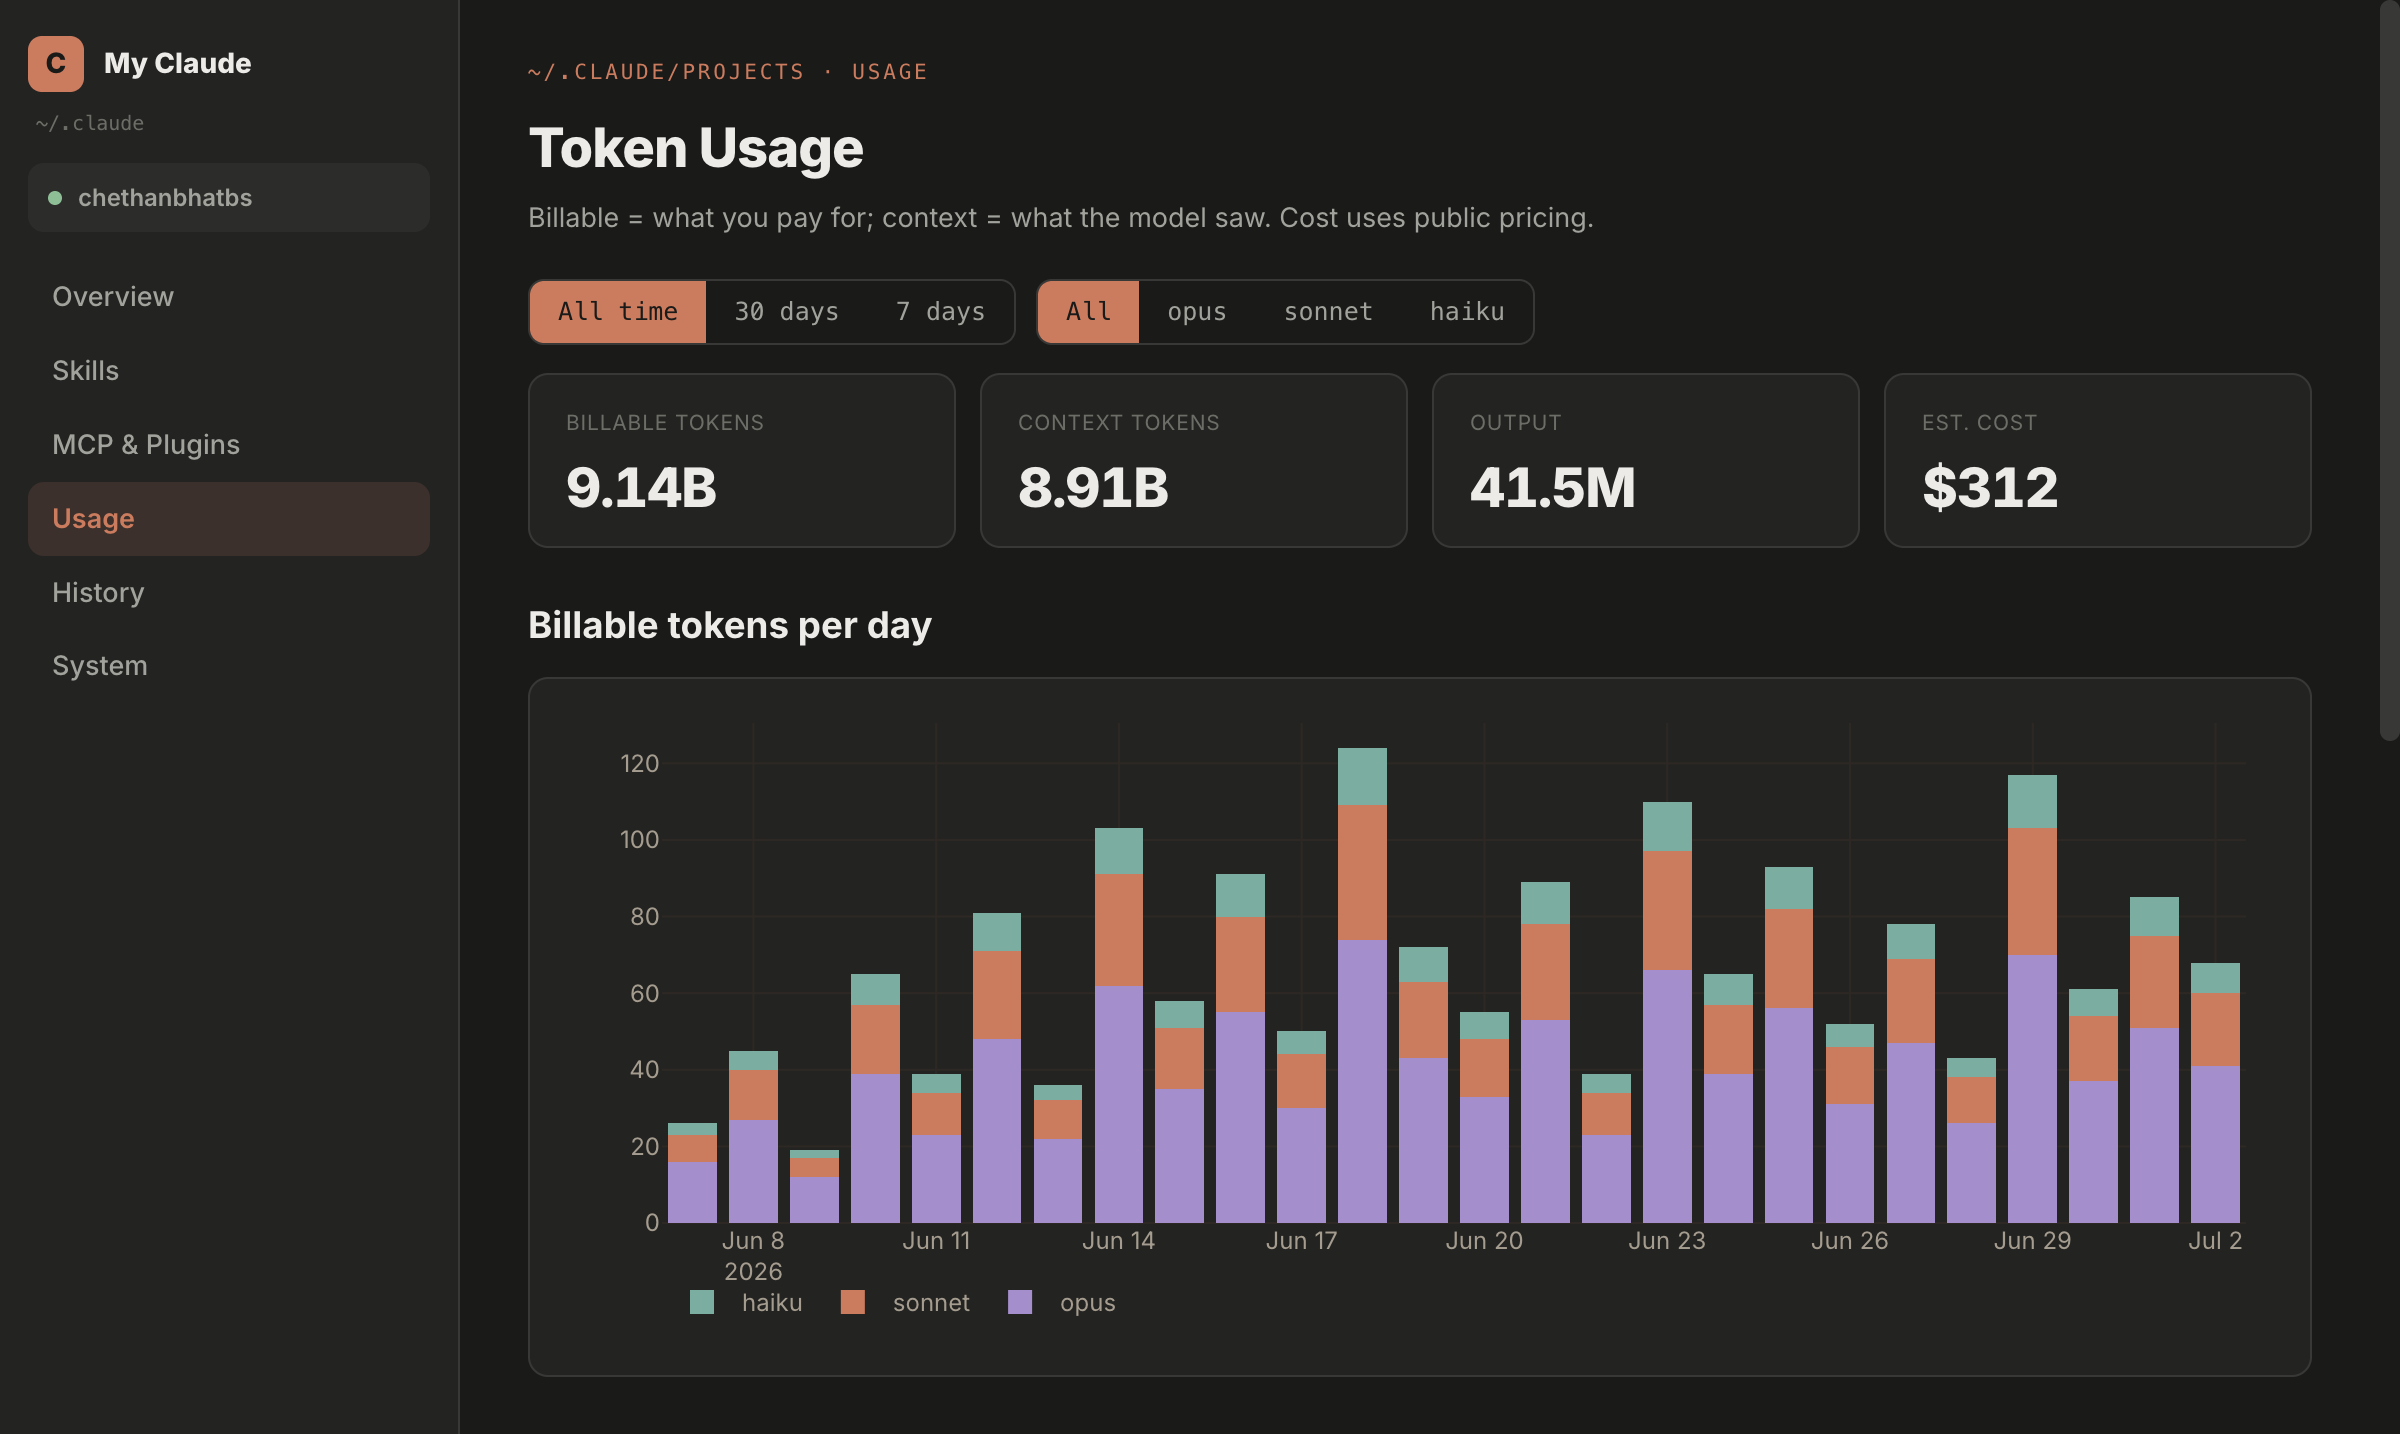
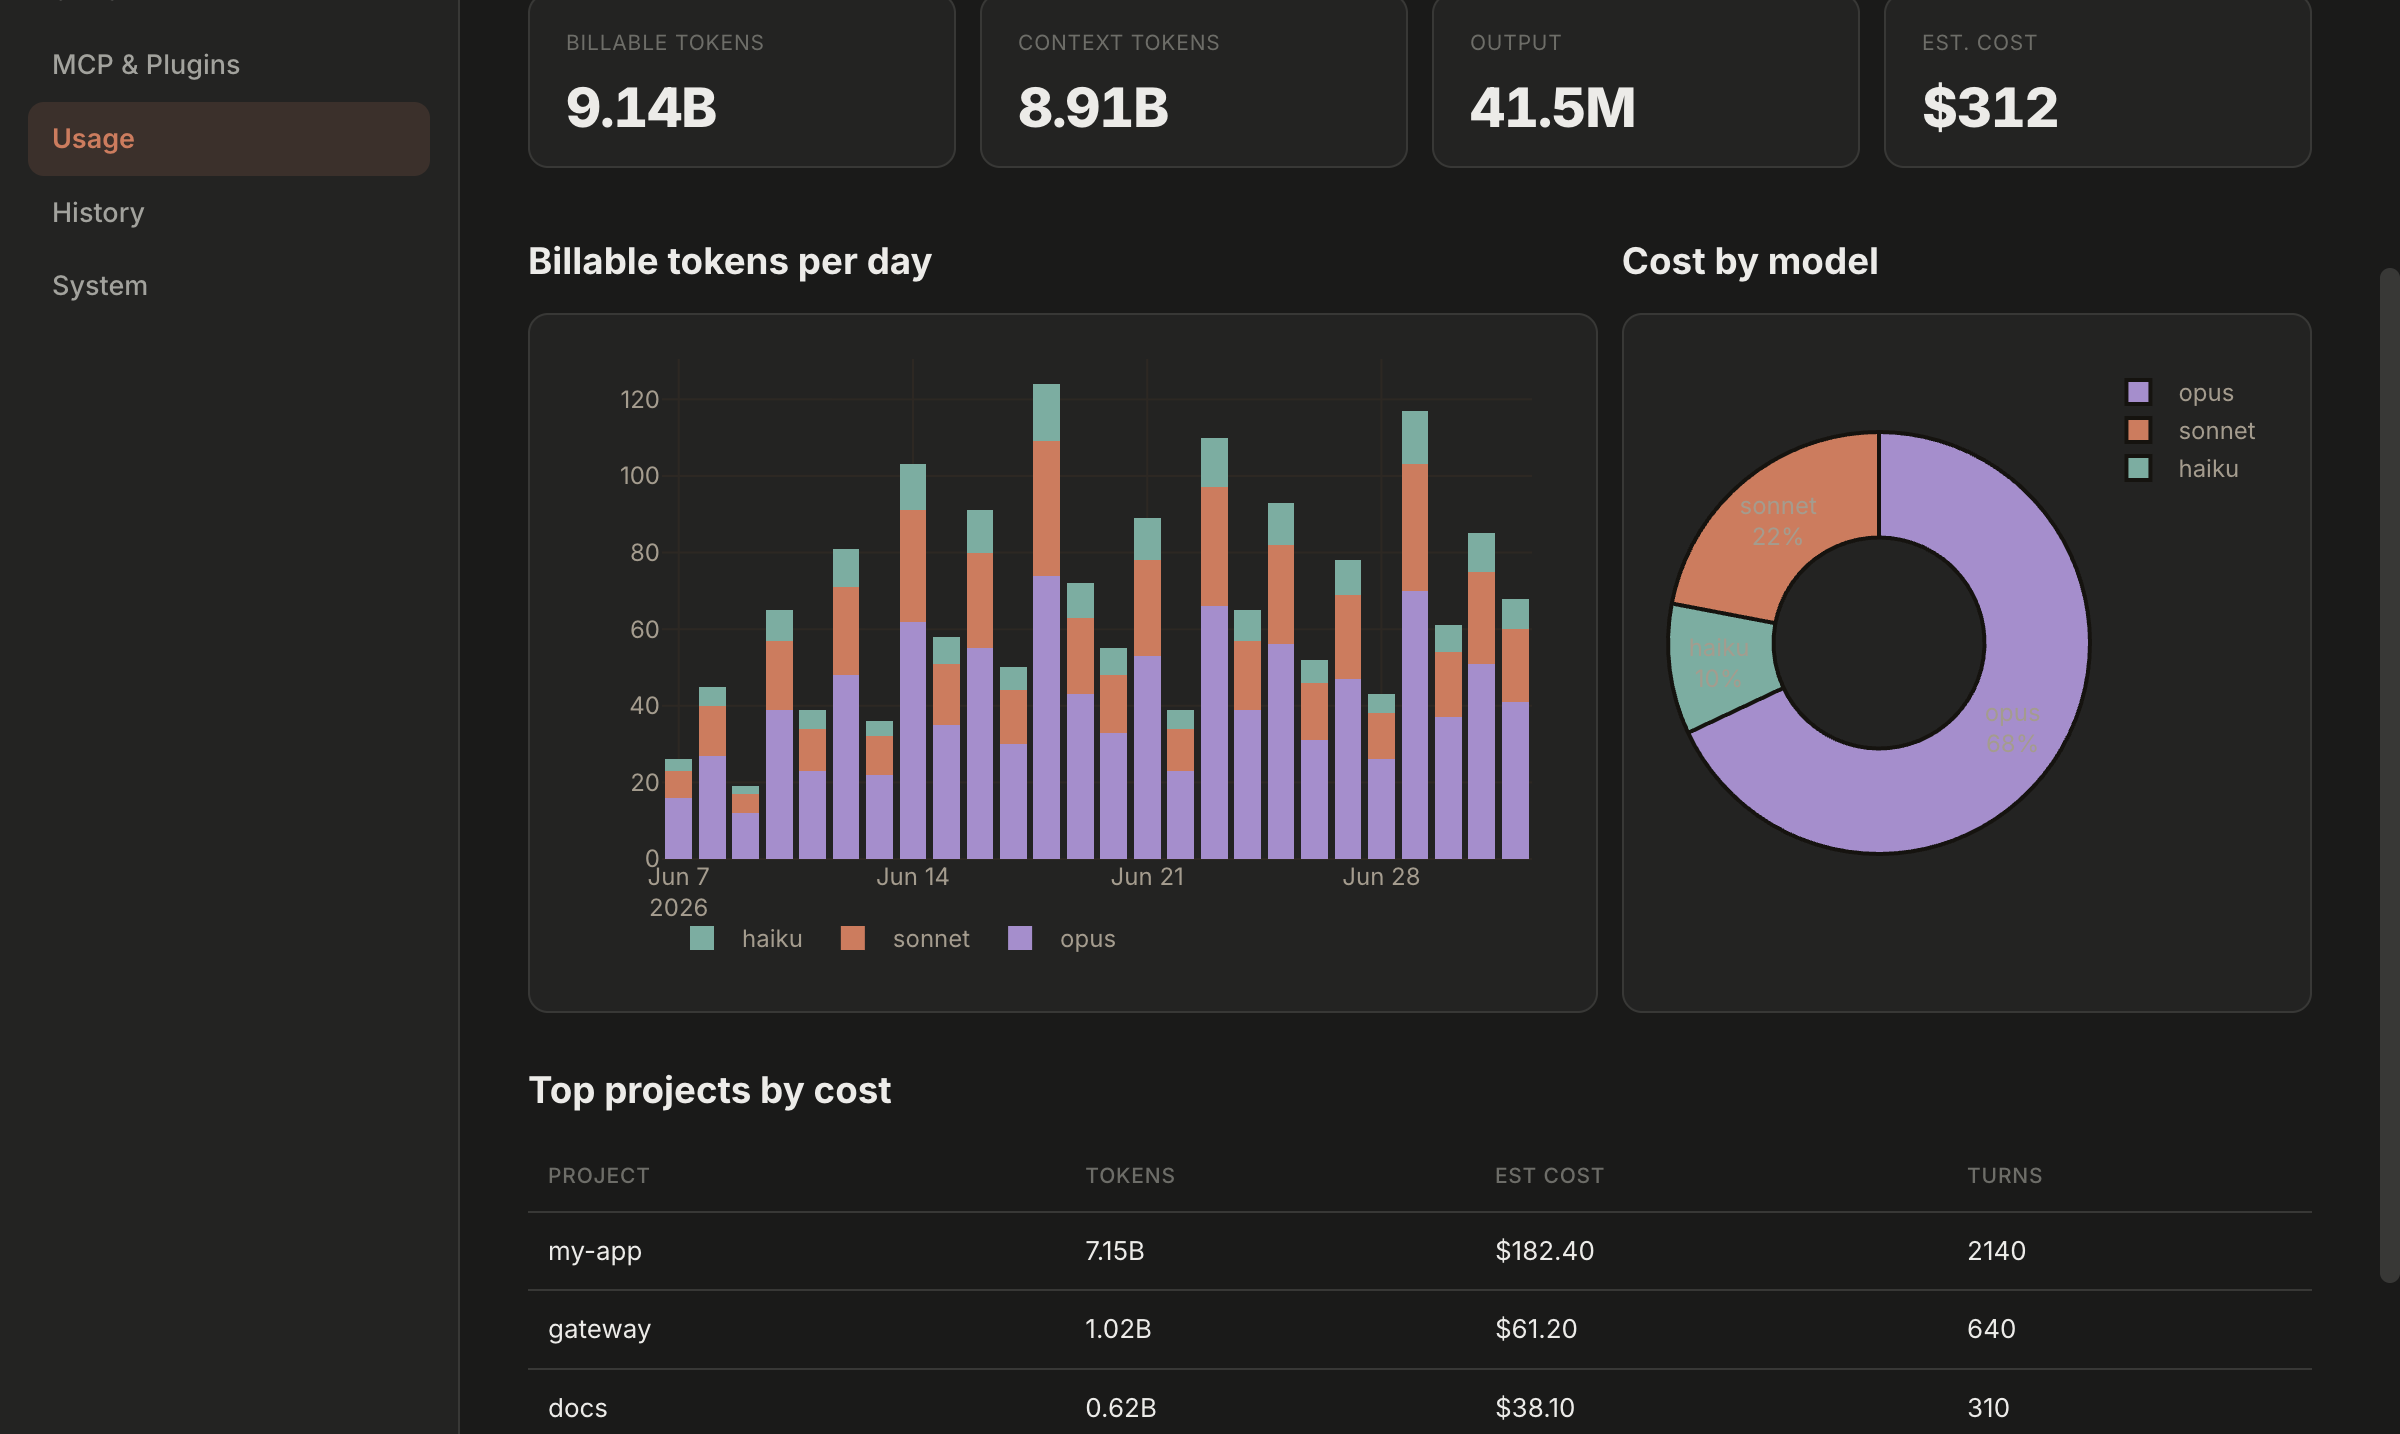
Demo: move Activity heatmap below Storage in Overview; refresh landing assets (overview, usage chart+pie, highlighted MCP json)

diff --git a/demo.html b/demo.html
@@ -297,13 +297,6 @@ const V={
       <div class="metric"><div class="l">Busiest project</div><div class="v" style="font-size:1.1rem">my-app</div><div class="s">2,140 messages</div></div>
       <div class="metric"><div class="l">Priciest day</div><div class="v" style="font-size:1.35rem">$41</div><div class="s">2026-06-15</div></div>
     </div>
-    <h2 class="sub">Activity · last year</h2>
-    <div class="heatmap" id="heat">${heat(0,53)}</div>
-    <div class="heat-legend">less
-      <span class="cell" style="background:var(--accent);opacity:.28"></span>
-      <span class="cell" style="background:var(--accent);opacity:.48"></span>
-      <span class="cell" style="background:var(--accent);opacity:.72"></span>
-      <span class="cell" style="background:var(--accent);opacity:1"></span>more · turns per day</div>
     <h2 class="sub">Recent</h2>
     <div class="grid2">
       <div class="panel"><div class="phead">Recent conversations <a onclick="go('history')">All →</a></div>
@@ -315,6 +308,13 @@ const V={
     </div>
     <h2 class="sub">Storage</h2>
     <div class="panel" style="padding:14px 16px"><div id="storage" class="chart" style="height:300px"></div></div>
+    <h2 class="sub">Activity · last year</h2>
+    <div class="heatmap" id="heat">${heat(0,53)}</div>
+    <div class="heat-legend">less
+      <span class="cell" style="background:var(--accent);opacity:.28"></span>
+      <span class="cell" style="background:var(--accent);opacity:.48"></span>
+      <span class="cell" style="background:var(--accent);opacity:.72"></span>
+      <span class="cell" style="background:var(--accent);opacity:1"></span>more · turns per day</div>
     <div class="alert" style="margin-top:16px">Conversation transcripts under ~/.claude/projects/ are stored in plaintext. Don't share this screen without redacting.</div>`;},
 
   usage(){return `